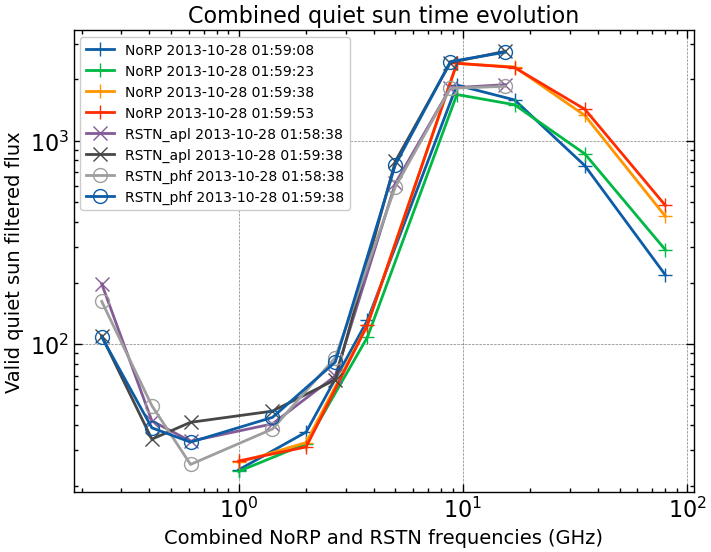
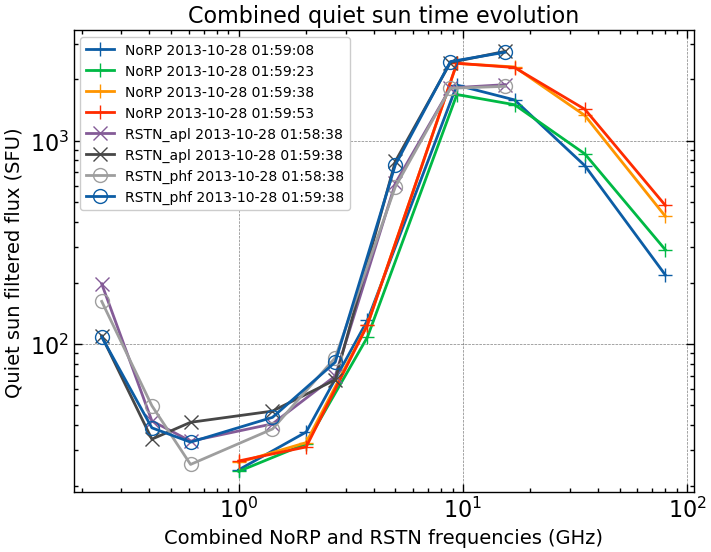
Averaged array plotter update

Changed region(s): [[0.0, 0.2156, 0.0309, 0.7391]]

diff --git a/data_plotter.py b/data_plotter.py
@@ -10,6 +10,7 @@ Created on Wed Mar 15 2023
 import numpy as np
 import matplotlib.pyplot as plt
 import scienceplots
+
 # Custom module import
 from data_fitter import gyro_model, plas_model
 
@@ -263,7 +264,7 @@ def log_plotter(arg):
 
     # Plot customizations
     plt.xlabel("Combined NoRP and RSTN frequencies (GHz)", fontsize=14)
-    plt.ylabel("Valid quiet sun filtered flux", fontsize=14)
+    plt.ylabel("Quiet sun filtered flux (SFU)", fontsize=14)
     plt.title("Combined quiet sun time evolution", fontsize=16)
     plt.legend(fontsize=10)
     plt.savefig("./media/figure_combined.png")
@@ -318,6 +319,104 @@ def peak_plotter(arg):
     return plt_6
 
 
+# %% Combined peak time plotter
+# Combined peak time plotter
+def log_avg_plotter(arg):
+    """
+    Parameters
+    ----------
+    arg : tuple
+        Plotter argument parameters.
+
+    Returns
+    -------
+    None.
+    """
+    # Local variable repo
+    (
+        data_norp_tim_valid,
+        data_apl_tim,
+        data_phf_tim,
+        data_norp_fi_peak,
+        data_apl_fi_peak,
+        data_phf_fi_peak,
+        data_norp_freq,
+        data_apl_freq,
+        data_phf_freq,
+        data_norp_peak_time,
+    ) = [arg[i] for i in range(len(arg))]
+
+    # Plot range limiter
+    # Gain peak value time array index
+    peak = (
+        np.where(data_norp_tim_valid == data_norp_peak_time)[0][0],  # peak
+        np.where(data_apl_tim == data_norp_peak_time)[0][0],  # peak_apl
+        np.where(data_phf_tim == data_norp_peak_time)[0][0],  # peak_phf
+        300,  # peak_norp_gap
+        60,  # peak_rstn_gap
+        150,  # gap_norp
+        60,  # gap_rstn
+    )
+    # Plot data range limiter at +- 30s
+    peak_idx = (
+        max(0, peak[0] - peak[3]),  # peak_start
+        min(data_norp_fi_peak.shape[0], peak[0] + peak[3]),  # peak_end
+        max(0, peak[1] - peak[4]),  # peak_apl_start
+        min(data_apl_fi_peak.shape[0], peak[1] + peak[4]),  # peak_apl_end
+        max(0, peak[2] - peak[4]),  # peak_phf_start
+        min(data_phf_fi_peak.shape[0], peak[2] + peak[4]),  # peak_phf_end
+    )
+
+    # Generate peak time averaged data array
+    data_norp_peak_avg, data_apl_peak_avg, data_phf_peak_avg = (
+        data_norp_fi_peak[peak_idx[0] : peak_idx[1], :],
+        data_apl_fi_peak[peak_idx[2] : peak_idx[3], :],
+        data_phf_fi_peak[peak_idx[4] : peak_idx[5], :],
+    )
+
+    # Plot generation
+    # Plot norp with loops
+    plt.plot(
+        data_norp_freq,
+        np.mean(data_norp_peak_avg, axis=0),
+        "+-",
+        markersize=10,
+        label="NoRP " + data_norp_tim_valid[peak[0]],
+    )
+    # Plot apl with loops
+    plt.plot(
+        data_apl_freq,
+        np.mean(data_apl_peak_avg, axis=0),
+        "x-",
+        markersize=10,
+        label="RSTN_apl " + data_apl_tim[peak[1]],
+    )
+    # Plot phf with loops
+    plt.plot(
+        data_phf_freq,
+        np.mean(data_phf_peak_avg, axis=0),
+        "o-",
+        markerfacecolor="none",
+        markersize=10,
+        label="RSTN_phf " + data_phf_tim[peak[2]],
+    )
+
+    # Plot axis scale definer
+    plt.xscale("log")
+    plt.yscale("log")
+
+    # Plot customizations
+    plt.xlabel("Combined NoRP and RSTN frequencies (GHz)", fontsize=14)
+    plt.ylabel("Valid quiet sun filtered flux", fontsize=14)
+    plt.title("Combined quiet sun at peak time", fontsize=16)
+    plt.legend(fontsize=10)
+    plt.savefig("./media/figure_peak_average_combined.png")
+    plt.close()
+
+    # Return averaged flux array at peak time
+    return data_norp_peak_avg, data_apl_peak_avg, data_phf_peak_avg
+
+
 # %% Plot generator
 # Define generator function
 def plot_generator(arg):
@@ -343,6 +442,7 @@ def plot_generator(arg):
         rstn_plotter(arg_rstn),
         log_plotter(arg_combine),
         peak_plotter(arg_peak),
+        log_avg_plotter(arg_combine),
     )
 
     # Return function call

diff --git a/data_handler.py b/data_handler.py
@@ -44,6 +44,7 @@ def loader(data_path):
     # Return the assignment
     return result
 
+
 # %% Data validator
 # NORP data filter based on mvd file
 def validator(data_norp_mvd, data_norp_tim, data_norp_fi):
@@ -76,6 +77,7 @@ def validator(data_norp_mvd, data_norp_tim, data_norp_fi):
     # Return filtered result
     return (data_norp_tim_valid, data_norp_fi_valid)
 
+
 # %% Quiet sun flux calculator
 # Quiet sun calculator
 def quiet_sun(data_array_tuple):
@@ -97,6 +99,7 @@ def quiet_sun(data_array_tuple):
 
     # Return quiet sun flux array tuple
     return data_array_repo
+
 
 # %% Peak time array collector
 # Peak time array collector
@@ -206,7 +209,9 @@ def collector(arg_time, arg_freq, arg_flux):
         return data_flux_combined
 
     # Peak time freq, flux array generator
-    data_freq_combined, data_flux_combined = peak_freq(arg_freq), peak_flux(arg_flux)
+    data_freq_combined, data_flux_combined = peak_freq(arg_freq), peak_flux(
+        arg_flux
+    )
 
     # Array sorter
     # Get numpy index sort array
@@ -224,7 +229,9 @@ def collector(arg_time, arg_freq, arg_flux):
     # Calculate the mean y values for each unique x value
     data_flux_final = np.zeros(len(data_freq_final))
     for i, xval in enumerate(data_freq_final):
-        data_flux_final[i] = np.mean(data_flux_sorted[data_freq_sorted == xval])
+        data_flux_final[i] = np.mean(
+            data_flux_sorted[data_freq_sorted == xval]
+        )
 
     # Return combined peak time flux array
     return data_freq_final, data_flux_final

diff --git a/data_fitter.py b/data_fitter.py
@@ -25,7 +25,8 @@ def gyro_model(x_val, param_a_cap, param_b_cap, param_a, param_b):
 # Plas model definition
 def plas_model(x_val, param_c, param_k):
     # Return plas model
-    return (param_c * x_val**param_k)
+    return param_c * x_val**param_k
+
 
 # %% Gyro fitter
 # Gyro fitter function
@@ -49,13 +50,10 @@ def gyro_fitter(data_freq, data_flux):
     chi_p_val : float
         The p-value from the chi-sqaured test.
     """
-    # Gyro fit data filter
-    # Fliter index generation
-    idx_filter = data_freq > 2
     # Generate filtered data
     data_x, data_y = (
-        data_freq[idx_filter],
-        data_flux[idx_filter],
+        data_freq[data_freq > 2],
+        data_flux[data_freq > 2],
     )
 
     # Iniitial parameter guess
@@ -99,6 +97,7 @@ def gyro_fitter(data_freq, data_flux):
     # Function return
     return (params, cov, chi_sqr, chi_p_val)
 
+
 # %% Plas fitter
 # Plas fitter function
 def plas_fitter(data_x, data_y):
@@ -121,13 +120,10 @@ def plas_fitter(data_x, data_y):
     chi_p_val : float
         The p-value from the chi-sqaured test.
     """
-    # Plas fit data filter
-    # Fliter index generation
-    idx_filter = data_x <= 2
     # Generate filtered data
     data_x, data_y = (
-        data_x[idx_filter],
-        data_y[idx_filter],
+        data_x[data_x <= 2],
+        data_y[data_x <= 2],
     )
 
     # Iniitial parameter guess

diff --git a/data_legacy.py b/data_legacy.py
@@ -9,6 +9,7 @@ Created on Tue Mar 28 2023
 import numpy as np
 import matplotlib.pyplot as plt
 import scienceplots
+
 # Custom module import
 from data_fitter import gyro_model, plas_model
 
@@ -138,14 +139,14 @@ def fit_plotter(arg):
         data_norp_freq,
         data_apl_freq,
         data_phf_freq,
-        data_peak_flux_norp, 
-        data_peak_flux_apl, 
+        data_peak_flux_norp,
+        data_peak_flux_apl,
         data_peak_flux_phf,
-        norp_gyro_param, 
-        norp_plas_param, 
-        apl_gyro_param, 
-        apl_plas_param, 
-        phf_gyro_param, 
+        norp_gyro_param,
+        norp_plas_param,
+        apl_gyro_param,
+        apl_plas_param,
+        phf_gyro_param,
         phf_plas_param,
     ) = [arg[i] for i in range(len(arg))]
 

diff --git a/main.py b/main.py
@@ -10,7 +10,7 @@ Created on Wed Mar 15 2023
 from data_handler import loader, validator, quiet_sun, collector
 
 # Data plotter import
-from data_plotter import plot_generator
+from data_plotter import plot_generator, log_avg_plotter
 
 # Data fitter import
 from data_fitter import gyro_fitter, plas_fitter
@@ -115,11 +115,14 @@ plt_arg1, plt_arg2, plt_arg3, plt_arg4 = (
     ),
     # Peak time combined plotter arguments
     (
-        peak_time_freq, 
-        peak_time_flux, 
+        peak_time_freq,
+        peak_time_flux,
         norp_peak_time,
     ),
 )
+
+# %% Averaged flux array parser
+norp_peak_avg, apl_peak_avg, phf_peak_avg = log_avg_plotter(plt_arg3)
 
 # %% Plot generator argument assignment
 # Plot generator argument assignment
